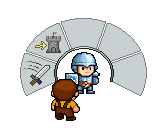
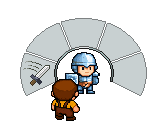
頁面補上示意圖:
1.魂件
2.購買

Changed region(s): [[0.2096, 0.2353, 0.3892, 0.4118]]

diff --git a/魂件.md b/魂件.md
@@ -13,15 +13,15 @@
 ![[locked_soul_component.png|239]]
 - 部分魂件標有上鎖圖示, 不可被交換、不可拆除
 
-(示意圖: 單位上同時安裝自動索敵和進攻主堡)
+![[soul_component_conflict.png]]
 * 部分魂件會互相衝突, 依照個別狀況定義表現：
 	* 「自動索敵」+「進攻主堡」：單位不會移動, 頭上顯示驚嘆號
 
-(示意圖: 同時裝有遠程攻擊、狙擊、緩速射線的士兵)
+![[many_soul_component_in_one_unit.png]]
 * 因為安裝多個魂件而讓單位有多種不同攻擊方式時, 每一種魂件的攻擊方式會各別計算觸發頻率, 互不衝突
 * 如果單位完全沒有安裝任何魂件, 則該單位不會移動、不會攻擊、不會被攻擊, 但仍可因為範圍傷害波及而受傷或死亡
 
-(示意圖: 各種魂件圖示)
+![[all_soul_component.png|411]]
 * 同一種魂件可以安裝多個在同一單位上, 使該能力產生升級的效果, 不同魂件種類有不同的升級方向
 * 魂件清單和相關設定如下：
 
@@ -36,7 +36,7 @@
 | 緩速射線  | 自動瞄準最近單一敵方敵人並持續使之緩速            | 緩速程度、作用範圍 |
 | 狙擊    | 自動瞄準最近單一敵方敵人並發動遠程攻擊, 攻速較慢但攻擊力高 | 攻擊範圍、攻擊力  |
 | 治癒領域  | 治療作用範圍內我方單位和中立單位, 以一定頻率觸發      | 觸發頻率、治癒量  |
-(示意圖: 防禦塔和魂件UI, UI上有4個槽位)
+![[add_soul_component_slot.png]]
 * 某些單位可透過觸發大地圖上的特殊事件點擴充魂件槽位：
-	* 防禦塔：預設2格, 可擴充到4格
-	* 士兵：預設2格, 可擴充到4格
+	* 防禦塔：預設2格, 可擴充到N格
+	* 士兵：預設2格, 可擴充到N格

diff --git a/購買.md b/購買.md
@@ -1,4 +1,4 @@
-(示意圖: 購買清單UI)
+![[purchase_list.png|248]]
 * 可以從購買清單上花費金幣購買物件
 * 購買清單物件數量上限可透過大地圖上的特殊事件點升級
 * 購買清單可以在關卡開始前自定義, 玩家可以自由拼裝該單位的預設魂件, 可安裝的魂件上限視該單位當前魂件槽位數量而定, 自定義後的清單會自動儲存, 下次開始關卡前會讀取玩家上次編輯的購買清單, 玩家拼裝的單位所安裝的魂件種類和數量會決定該單位的花費
